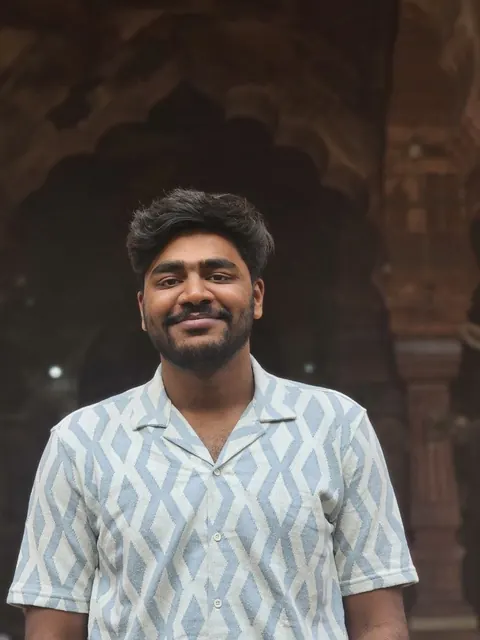
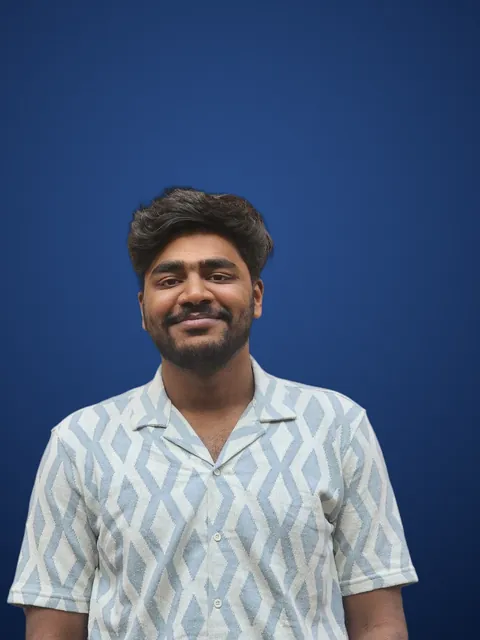
Update contact line and hero photo backdrop

diff --git a/components/ChatWidget.tsx b/components/ChatWidget.tsx
@@ -82,7 +82,7 @@ const ChatWidget: React.FC = () => {
   // Construct the System Instruction
   const systemContext = `
     You answer questions about Muhammed Roshan M for recruiters and hiring managers.
-    He is looking for Strategic Projects, AI data operations and evaluation program roles, and is ready to relocate, including to New York.
+    He is looking for Strategic Projects, AI data operations and evaluation program roles, and is happy to work anywhere in the world the future of AI is being built.
     He is NOT looking for PhD positions. If asked, say he has moved from research into operations and delivery work.
 
     Answer ONLY from the data below. Do not invent numbers, clients, dates or project names.

diff --git a/components/Contact.tsx b/components/Contact.tsx
@@ -58,7 +58,7 @@ const Contact: React.FC = () => {
             as="p"
             className="max-w-[26ch] text-pretty text-[1.375rem] font-medium leading-[1.2] tracking-[-0.025em] text-paper sm:text-[1.75rem] md:text-[2.25rem] lg:max-w-none lg:text-[clamp(2.25rem,2.9vw,3rem)]"
           >
-            Open to Strategic Projects, AI data operations and evaluation program roles. Happy to relocate, including to New York.
+            Open to Strategic Projects, AI data operations and evaluation program roles, anywhere in the world the future of AI is being built.
           </RevealItem>
 
           <RevealItem kind="card" as="div" className="grid grid-cols-1 gap-3 sm:grid-cols-3 lg:grid-cols-1 xl:grid-cols-3">
